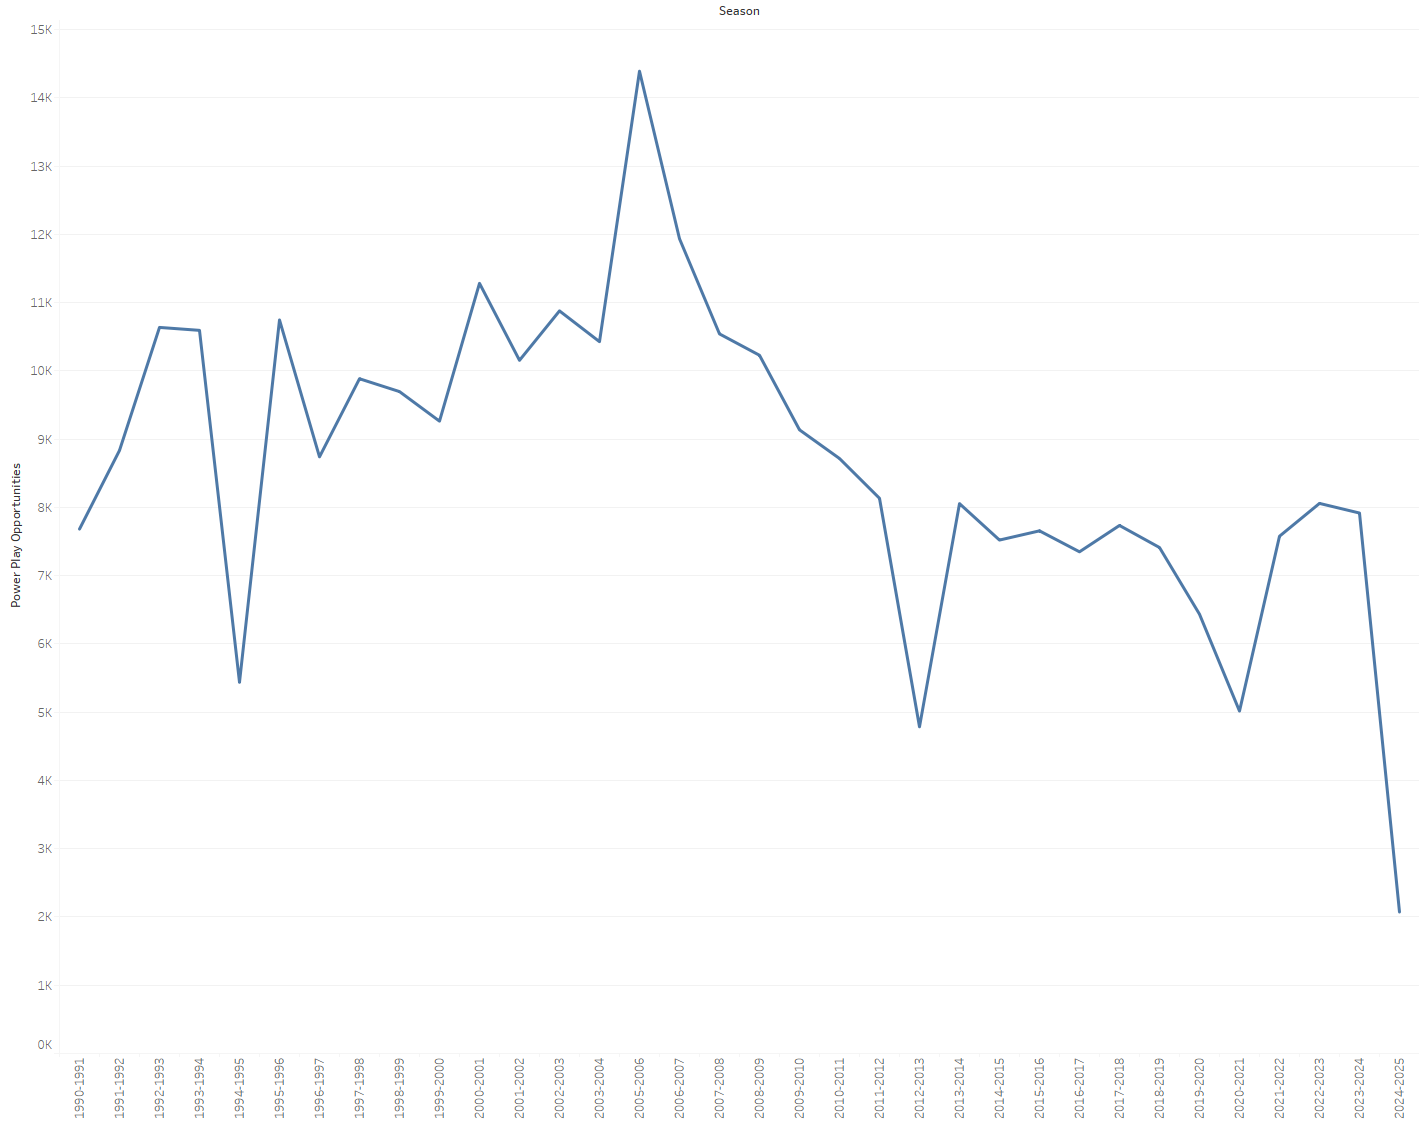
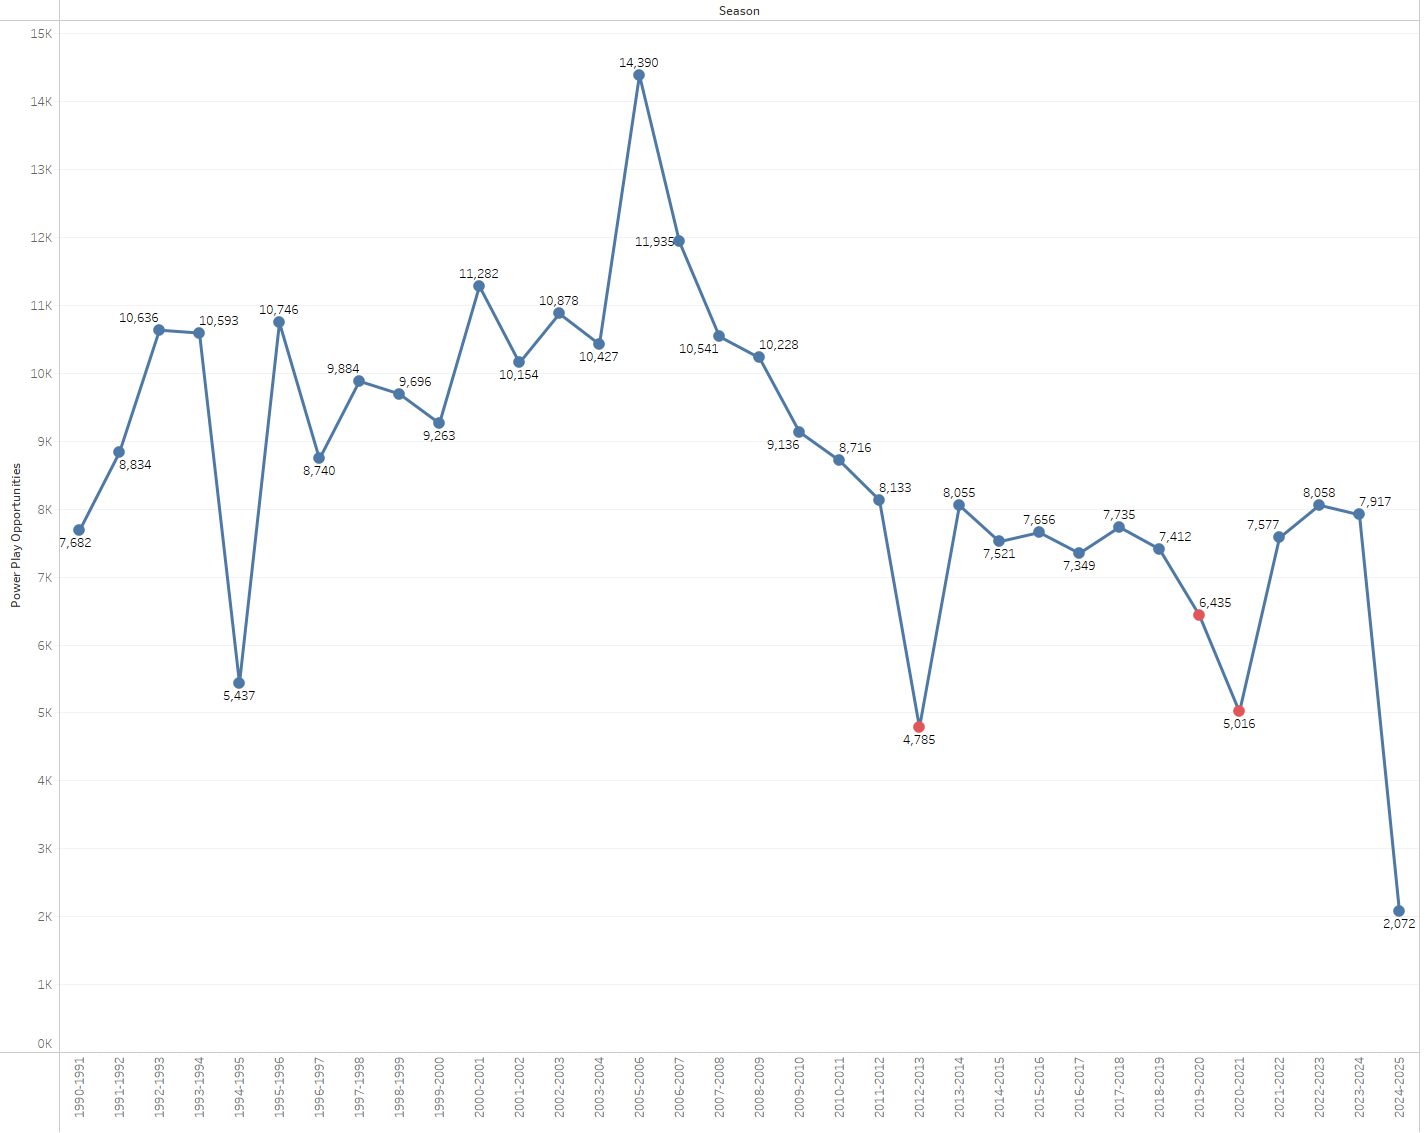
added fianl vis image

diff --git a/index.html b/index.html
@@ -34,7 +34,8 @@
             </p>
         </div>
         <div class="image">
-            <img src="images/vis1.png" alt="Chart of Season Average Goals per Game." width="1000" height="500">
+            <script type="module" src="vis.js"></script>
+            <!-- <img src="images/vis1.png" alt="Chart of Season Average Goals per Game." width="1000" height="500"> -->
         </div>
     </div>
 
@@ -215,9 +216,24 @@
             <img src="images/vis6.png" alt="Diagram of Offside and Onside after rule change." width="800" height="800">
             <div class="text-below">
                 <p>
-                Rules surrounding the goaltender’s equipment were changed following the 2005 NHL lockout, with stricter regulations on the size and fit of gear. Jerseys and pads had to be more form-fitting and proportionate to the goalie’s body, ensuring a more uniform look. Leg pads were limited to a maximum width of 11 inches, while blockers were reduced from 16 inches to 15 inches. The circumference of catching gloves was also decreased, from 48 inches to 45 inches. These changes aimed to make it more difficult for goalies to control the puck, leading to more scoring opportunities. The rule changes also helped reopen the five-hole, the narrow gap between a goaltender’s legs, specifically between the pads and the body, thus creating additional space for shooters to target and score.
+                    When examining total power play opportunities from 1990 to 2005, several intriguing trends emerge. The crackdown on obstruction penalties led to a significant spike in opportunities, increasing by approximately 4,000 compared to the previous season. During the Dead Puck Era (1997–2004), power play opportunities consistently remained below 11,000, with only one exception. This suggests that the lack of enforcement of obstruction penalties likely contributed to the characteristics of the Dead Puck Era.
+                    After the 2005–2006 season, power play opportunities experienced a sharp decline, continuing steadily downward until the 2018–2019 season. Excluding the 2012–2013, 2019–2020, and 2020–2021 seasons—marked in red due to reduced games caused by a lockout and the COVID-19 pandemic—it is clear that power play opportunities have generally declined since 2005.
                 </p>
             </div>
         </div>
+
+        <h2>Conclusion</h2>
+
+        <div class="blur-container">
+            <img src="images/Slapshot.jpg" alt="A Blurred Image of a Player Taking a Slapshot" width="1800" height="1000">
+            <div class="intro-text">
+                <p>
+                The Dead Puck Era (1997-2004) represents a defining chapter in the NHL's history, marked by a decline in scoring that prompted significant changes in how the game was played and regulated. The defensive systems of the time and lenient enforcement of obstruction penalties further limited scoring opportunities. The increasing size of goaltending equipment also played a key role in tipping the balance in favor of defensive play.
+                This era emphasized the delicate balance the NHL must uphold between offense and defense to sustain the game's excitement and appeal. Scoring is the cornerstone of hockey, driving its thrill and entertainment, and the league must ensure a consistently high level of scoring to keep fans engaged and invested in the sport.
+                </p>
+            </div>
+        </div>
+
+        <p class="desc"></p>
 </body>
 </html>

diff --git a/vis.js b/vis.js
@@ -1,0 +1,40 @@
+import * as d3 from "https://cdn.jsdelivr.net/npm/d3@7/+esm";
+
+console.log(d3);
+
+async function drawVis() {
+
+    const dataset = await d3.csv("./datasets/LeagueTotals.csv", d3.autoType);
+    console.log(dataset);
+
+    const width = 800;
+    const height = 500;
+
+    const margin = {top: 20, right: 30, bottom: 50, left: 60};
+
+
+
+
+        const svg = d3
+            .select(".image")
+            .select("svg")
+            .attr("width", width)
+            .attr("height", height)
+            .style("border", "1px solid black");
+
+        const g = svg
+            .append("g")
+            .attr("transform", `translate(${margin.left}, ${margin.top})`);
+
+            x.domain(d3.extent(dataset, d => d.Season));
+            y.domain(d3.extent(dataset, d => d.AverageGoalsPerGame));
+
+            svg.append("g")
+            .attr("transform", `translate(0,${height})`)
+            .call(d3.axisBottom(x).tickFormat(d3.format("d")))
+
+
+
+        }
+
+        drawVis();

diff --git a/style.css b/style.css
@@ -33,7 +33,7 @@ body {
 
 .blur-container img {
     display: block;
-    filter: blur(5px);
+    filter: blur(2px);
 }
 
 .intro-text {
@@ -105,7 +105,7 @@ body {
     margin-top: 10px;
     font-size: 1.2rem;
     color: #333;
-    width: 80%;
+    width: 60%;
 }
 
 figure img {
